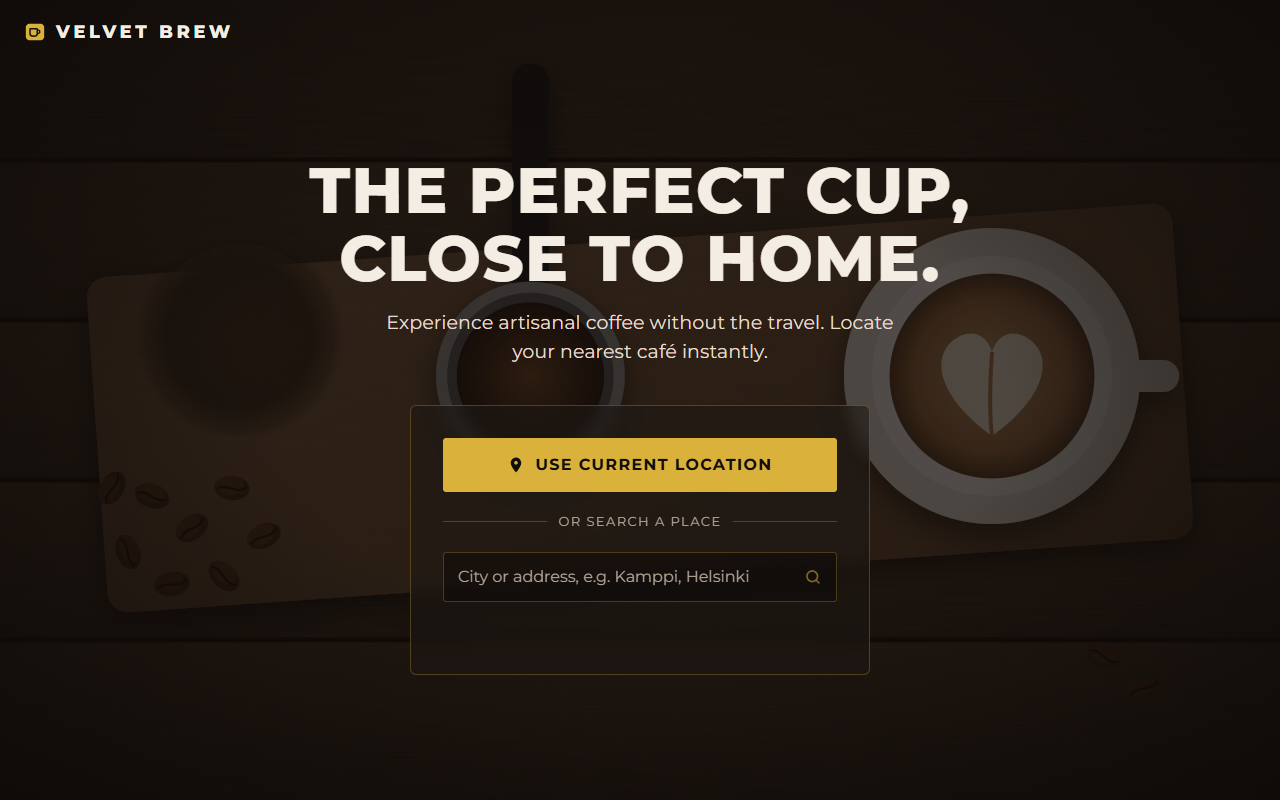
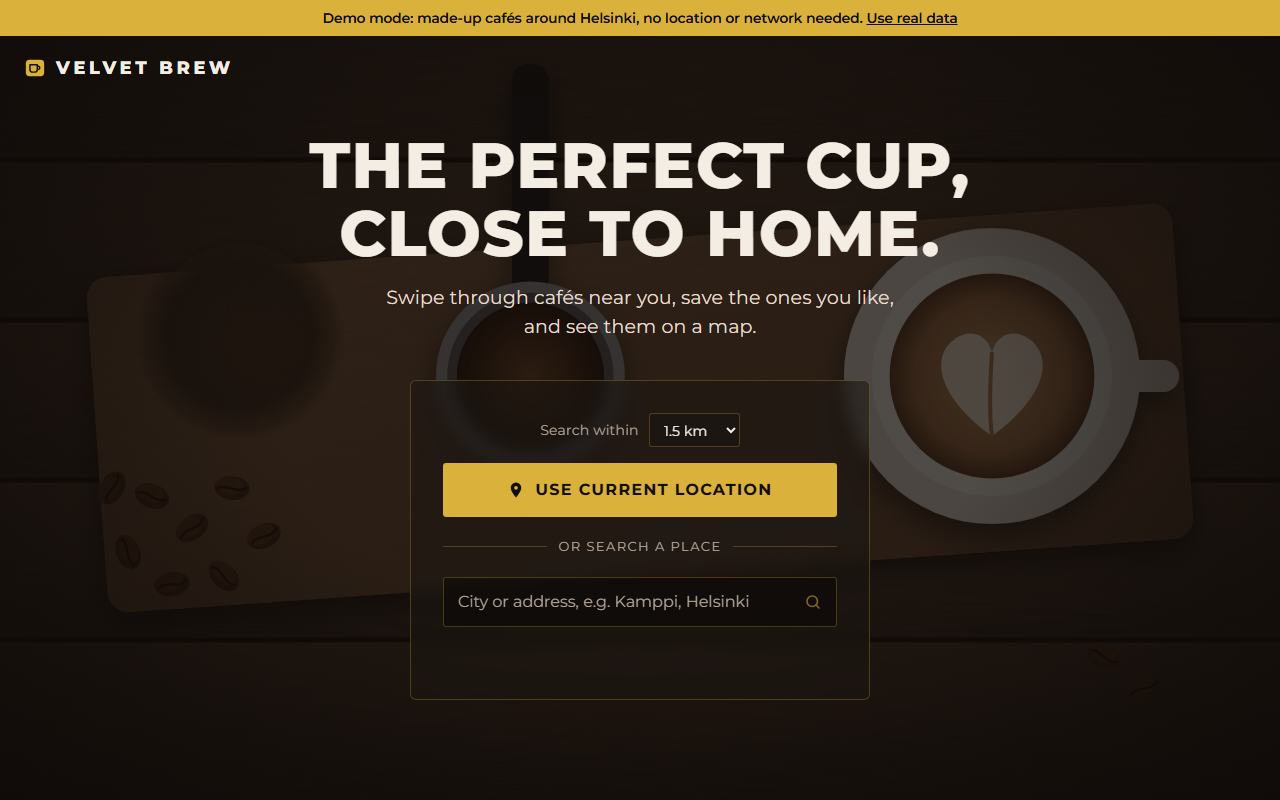
docs: rewrite README with architecture, measurements and demo GIF

diff --git a/README.md b/README.md
@@ -1,134 +1,105 @@
-# Velvet Brew: Coffee Finder
+# Personal Coffee Finder
 
-A React web app that finds real cafés near you with OpenStreetMap data and shows them on a map and in a list sorted by distance, with walking directions and your own reviews.
+Swipe through cafés near you, save the ones you like, and see them on a map. A React + TypeScript front end and a small Fastify API, running on OpenStreetMap data, so no API keys are involved anywhere.
 
-**Live demo:** https://kalalev18.github.io/Coffee-Finder/
+**Live demo:** https://kalalev18.github.io/Coffee-Finder/ · [demo mode with sample data](https://kalalev18.github.io/Coffee-Finder/?demo)
 
-![Velvet Brew landing page](docs/hero.png)
-
-## The problem
-
-Map apps answer "where is coffee?" with ads, sponsored pins, and a lot of noise. Velvet Brew does one job: show which cafés are closest to where you're standing (or to any place you type), how far each one is on foot, and how to get there. It uses open data only, so it needs no API keys and no account.
-
-![Results: map and list of nearby cafés](docs/results.png)
-
-<p align="center"><img src="docs/mobile.png" alt="Mobile layout" width="260"></p>
+![Swiping through cafés, undoing a skip, and viewing saved cafés on the map](docs/swipe.gif)
 
 ## Features
 
-- **Use current location:** browser geolocation, with clear messages when permission is denied or times out
-- **Search a place:** type a city or address (geocoded with Nominatim) when location isn't available
-- **Nearest first:** distances calculated with the haversine formula, plus a rough walking time
-- **Interactive map:** Leaflet with OpenStreetMap tiles; clicking a pin highlights the matching café in the list, and clicking a café flies the map to it
-- **Directions:** one click opens a walking route in Google Maps or OpenStreetMap
-- **Café details:** address, opening hours, and website when OpenStreetMap has them
-- **Reviews:** rate a café 1 to 5 stars with an optional comment; the average shows on the card. Reviews are stored in your browser's `localStorage` (see [What I would improve next](#what-i-would-improve-next))
-- **Fallback servers:** public Overpass servers are often overloaded, so the app tries a list of mirrors in order before showing an error
-- **Responsive and accessible:** works down to phone width; keyboard navigation, labelled controls, live status messages, and reduced motion support
+- Search from your location or a typed address, within 500 m to 5 km
+- Swipe cards: drag right to save, left to skip, with undo. Works with touch, mouse and keyboard (← → and Backspace)
+- "Open now" filter, based on a parser for OpenStreetMap's `opening_hours` format
+- Map and list in sync, walking directions, and personal 1–5 star reviews
+- Saved cafés are kept in the browser and shown on their own map
+- Demo mode (`?demo`) with bundled sample data, for trying it without location access or network
 
-## Tech stack
+## Architecture
 
-| Area      | Tools                                             |
-| --------- | ------------------------------------------------- |
-| Front end | React 18, TypeScript (strict), Vite               |
-| Map       | Leaflet + react-leaflet, OpenStreetMap tiles      |
-| Data      | Overpass API (cafés), Nominatim (address search)  |
-| Testing   | Vitest, React Testing Library, jsdom              |
-| Quality   | ESLint, Prettier, GitHub Actions CI               |
-| Hosting   | GitHub Pages (deployed automatically from `main`) |
+```mermaid
+flowchart LR
+  B[Browser<br/>React + Vite] -->|/api/cafes, /api/geocode| A[API<br/>Fastify + zod]
+  A --> C[(In-memory cache<br/>TTL + LRU)]
+  A -->|on cache miss| O[Overpass API<br/>café data]
+  A -->|geocoding, and café backup<br/>when Overpass fails, ≤1 req/s| N[Nominatim]
+```
 
-## How it works
+```
+apps/web         React front end (swipe deck, map, filters, saved list)
+apps/api         Fastify API: validation, caching, rate limiting, metrics
+packages/shared  Types and OpenStreetMap query/parse logic used by both
+```
 
-1. **Find a starting point.** Either `navigator.geolocation` or a Nominatim lookup of the typed place.
-2. **Query Overpass** for every `amenity=cafe` node and building within 1.5 km (configurable). Buildings are reduced to their centre point.
-3. **Parse and sort.** Unnamed cafés and elements without coordinates are dropped, distances are computed client-side, and the 50 nearest are kept.
-4. **Render** the map and list from the same state, so selecting in one updates the other.
+The front end picks its data source at build time: the API (`VITE_API_URL`), the OpenStreetMap services called directly from the browser (the static GitHub Pages build), or bundled demo data.
 
-A new search cancels any request still in flight (`AbortController`), so a slow earlier response can't overwrite newer results.
+## Design decisions
+
+**Why an API when there's no key to hide.** The original template exposed a Google key in front-end code. Switching to OpenStreetMap removed the secret, but the public servers are shared and rate-limited. The API caches results for all users, rate-limits per IP (30/min), spaces Nominatim calls to the one per second its policy allows, and sends an identifying `User-Agent`, which browsers don't let scripts set.
+
+**Caching nearby searches.** Two people a few metres apart would never share an exact-coordinate cache key. Each search is snapped to the centre of a ~280 m grid cell. The upstream query uses a radius padded by 200 m, which covers the worst-case snapping error, so no café is missed. Distances are then measured from the real origin. Concurrent requests for the same cell share one upstream call, and failed calls are never cached.
+
+**When Overpass is down.** Public Overpass mirrors often return 429/504 or simply hang. Each mirror gets 8 s, with a 15 s budget for all of them. After that the search falls back to Nominatim's place search. The fallback returns at most 40 cafés with fewer details, and the page says when it's being used. A newer search aborts the previous one, so a slow old response can't overwrite new results.
+
+**The swipe gesture.** It uses Pointer Events with pointer capture, so one code path covers touch and mouse. The drag offset is written to a CSS custom property rather than React state, so the card moves without re-rendering on every event. A card counts as saved or skipped past 100 px, or with a fast flick. `touch-action: pan-y` keeps vertical scrolling working on phones. With `prefers-reduced-motion`, decisions apply instantly.
+
+**Untrusted data.** OpenStreetMap is user-edited, so website links are only rendered if they parse as `http(s)` URLs. Text is escaped by React. All API input is validated with zod.
+
+## Measured results
+
+Lighthouse 13.5.0 on the production build (demo mode, local preview, 26 Oct 2026):
+
+| Preset  | Performance | Accessibility | Best practices | SEO | LCP   |
+| ------- | ----------- | ------------- | -------------- | --- | ----- |
+| Mobile  | 94          | 100           | 100            | 100 | 2.3 s |
+| Desktop | 98          | 100           | 100            | 100 | 0.7 s |
+
+Geocoding through the API (`npm run bench -w @coffee-finder/api -- geocode`, three places looked up three times each with different casing): 6 of 9 requests were cache hits answered in 1–3 ms, against 506–970 ms for a miss. A miss includes the one-request-per-second spacing.
+
+The café search uses the same cache. I haven't benchmarked it against live Overpass yet, because the public servers were timing out when I tried, so I claim no numbers for it. That outage is also why the Nominatim fallback exists: during it, a search from central Helsinki returned 39 cafés through the backup after 16.4 s. `npm run bench -w @coffee-finder/api -- cafes` measures the cache.
 
 ## Getting started
 
-Requires **Node.js 20.19+ or 22.12+** (an `.nvmrc` is included).
+Requires Node.js 20.19+ or 22.12+.
 
 ```bash
 git clone https://github.com/KALalev18/Coffee-Finder.git
 cd Coffee-Finder
 npm ci
+npm run dev                  # front end on http://localhost:5173, calling OpenStreetMap directly
+```
+
+To run the full stack, create `apps/web/.env` containing `VITE_API_URL=http://localhost:3001`, then:
+
+```bash
+npm run dev:api              # API on http://localhost:3001 (second terminal)
 npm run dev
 ```
 
-Open http://localhost:5173. Browsers only allow geolocation on `localhost` or HTTPS, so both the dev server and the live demo work.
+Nothing needs configuring. The options are listed in [`apps/web/.env.example`](apps/web/.env.example) and [`apps/api/.env.example`](apps/api/.env.example). The API ships as a Docker image (`docker build -f apps/api/Dockerfile .`), with a [Render blueprint](render.yaml) included.
 
-### Configuration (optional)
-
-The app works with no configuration. To change the defaults, copy `.env.example` to `.env`:
-
-| Variable               | Default                                      | Purpose                                  |
-| ---------------------- | -------------------------------------------- | ---------------------------------------- |
-| `VITE_OVERPASS_URLS`   | three public Overpass servers                | Comma-separated servers, tried in order  |
-| `VITE_NOMINATIM_URL`   | `https://nominatim.openstreetmap.org/search` | Address search endpoint                  |
-| `VITE_SEARCH_RADIUS_M` | `1500`                                       | Search radius in metres (capped at 5000) |
-
-### Other commands
+## Testing
 
 ```bash
-npm run build      # type-check and build to dist/
-npm run preview    # serve the production build locally
-npm run check      # lint + format check + type-check + tests (same as CI)
+npm run check                # lint, format, type-check and all unit/integration tests
+npm run test:e2e             # Playwright, desktop and mobile viewports
 ```
 
-## Running tests
+- **118 unit and integration tests (Vitest).** They cover the opening-hours parser, swipe thresholds, grid snapping, the TTL/LRU cache, Overpass parsing, failover and the Nominatim fallback, API routes through `fastify.inject` with mocked upstreams (validation, 502s, rate limits, CORS, metrics), and app flows in React Testing Library.
+- **4 Playwright scenarios, each run on desktop and mobile.** They cover search → swipe → save → map in demo mode, a typed search with mocked OpenStreetMap responses, the denied-location fallback, and an axe scan for WCAG 2.1 AA violations.
 
-```bash
-npm test
-```
+CI runs all of this on every push, and also builds the API's Docker image.
 
-47 tests cover the core logic and the main user flows:
+## Background
 
-- **Unit:** haversine distance (checked against known distances), distance formatting, Overpass query building and parsing (buildings, unnamed cafés, sorting, result cap), mirror fallback and cancellation, Nominatim geocoding, review storage (including corrupt or blocked `localStorage`), directions URLs, and config parsing
-- **Integration (App):** location search, denied permission, typed search, place not found, directions links, saving a review that survives a reload, and map-to-list selection. Network calls and geolocation are mocked; Leaflet is replaced with a stub because jsdom has no layout engine.
+This started as the [Codédex](https://www.codedex.io/) Cafe Finder template, a single HTML/JS page that called Google Places with an API key in the page source, through a public CORS proxy. I rewrote it from scratch. None of the template code remains. I replaced Google with OpenStreetMap so there's no key to leak, added the API, the swipe deck and filters, and added tests and CI.
 
-The full flow was also checked by hand in Microsoft Edge against the live APIs (Helsinki city centre via geolocation, and "Plovdiv Old Town" via search).
+## Next steps
 
-## Project structure
+- Shared reviews and saved lists, using a database and sign-in
+- Redis instead of the in-memory cache, so several API instances share it
+- Photos (OpenStreetMap has none; Wikimedia Commons links are one option)
 
-```
-src/
-├── App.tsx                 # Page layout; connects search state, reviews and results
-├── components/
-│   ├── Hero.tsx            # Landing section: location button, search form, status
-│   ├── Results.tsx         # Results heading, map + list layout, selection state
-│   ├── CafeMap.tsx         # Leaflet map with user and café markers
-│   ├── CafeCard.tsx        # One café: distance, details, directions, reviews
-│   ├── ReviewPanel.tsx     # Star rating form and review list
-│   └── Header.tsx, Stars.tsx, Icons.tsx
-├── hooks/
-│   ├── useCafeSearch.ts    # Locate → fetch → results state machine, cancels stale searches
-│   └── useReviews.ts       # Review state synced to localStorage
-└── lib/                    # Framework-free logic, unit tested
-    ├── overpass.ts         # Query builder, response parser, mirror fallback
-    ├── nominatim.ts        # Place search
-    ├── geo.ts              # Haversine distance, formatting, walking time
-    ├── geolocation.ts      # Promise wrapper around the browser API
-    ├── reviews.ts          # Review validation and storage
-    ├── directions.ts       # Google Maps / OSM route links
-    └── config.ts           # Environment variables with safe defaults
-```
+## Credits and license
 
-## What I would improve next
-
-- **Shared reviews:** reviews currently live in one browser. A small backend (for example Supabase or a Node API with PostgreSQL) would let everyone see them, and would need sign-in and moderation.
-- **Filters:** "open now" (by parsing the OSM `opening_hours` format), Wi-Fi, outdoor seating, and vegan options, all already present as OSM tags.
-- **Caching:** store recent Overpass results for a few minutes to cut load on the public servers and make repeat searches instant.
-- **Adjustable radius** in the UI rather than only through configuration.
-- **End-to-end tests** with Playwright in CI, mocking the APIs, to cover the real map.
-
-## Data and credits
-
-- Café and map data © [OpenStreetMap](https://www.openstreetmap.org/copyright) contributors, available under the ODbL.
-- Searches use the public [Overpass API](https://wiki.openstreetmap.org/wiki/Overpass_API) and [Nominatim](https://nominatim.org/) within their usage policies: one request per user action and no automated bulk queries.
-- Velvet Brew is a made-up brand for this project. The background illustration is an original SVG.
-
-## License
-
-[MIT](LICENSE)
+Map and café data © [OpenStreetMap](https://www.openstreetmap.org/copyright) contributors (ODbL). The demo cafés are invented. MIT licensed, see [LICENSE](LICENSE).
